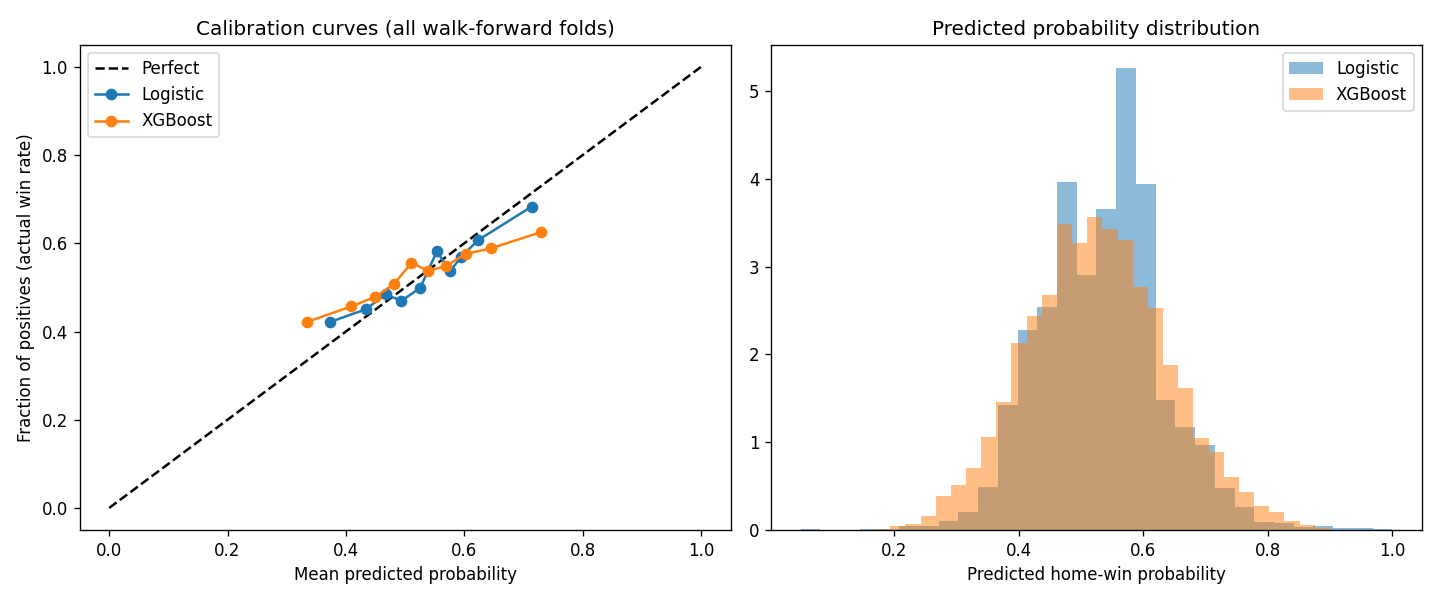
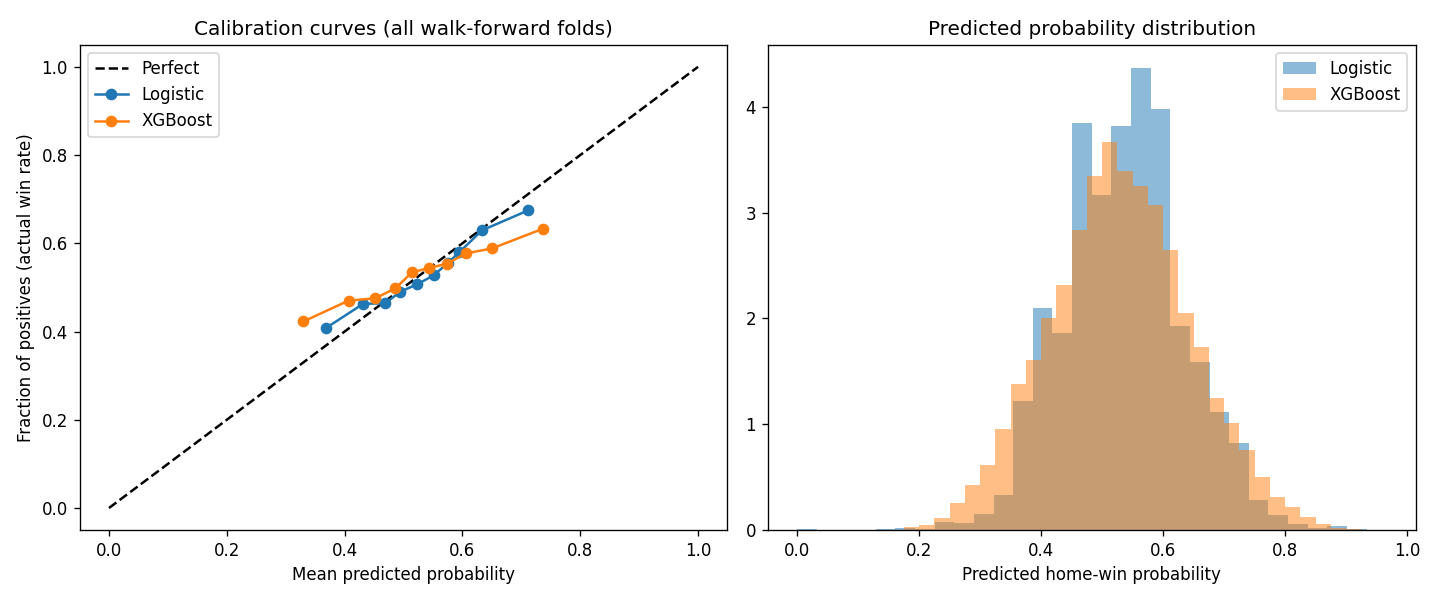
Add Elo ratings feature + safety fixes + bankroll sync
- elo_diff is now the #1 model feature (coef +0.199); AUC 0.585 → 0.588
  Elo computed game-by-game (K=20, home_adv=35, 33% season regression),
  no lookahead leakage — same-day games flushed as a batch before updating.
  build_elo_cache() for training, build_live_elo_ratings() for live picks.

- MAX_AMERICAN_ODDS = 400 hard cap in recommender (belt-and-suspenders on
  top of MIN_MARKET_PROB; logistic cannot reliably price true underdogs)

- get_current_bankroll() reads settings.json first, falls back to
  DEFAULT_BANKROLL — daily_picks and update_and_pick now size bets off
  the live bankroll ($56.75) not the stale config value ($71.34)

- CLV capture plist updated to run at noon AND 4pm so afternoon games
  (1pm starts) are captured before first pitch

diff --git a/features/engineering.py b/features/engineering.py
@@ -27,6 +27,100 @@ sys.path.insert(0, str(Path(__file__).parent.parent))
 from db.schema import get_engine, Game
 
 # ---------------------------------------------------------------------------
+# Elo rating parameters
+# ---------------------------------------------------------------------------
+
+_ELO_BASE    = 1500.0   # starting rating for any team with no history
+_ELO_K       = 20.0     # update sensitivity per game (standard for baseball)
+_ELO_HOME    = 35.0     # home-field bonus in Elo points (≈ +2.4% win prob)
+_ELO_REGRESS = 0.33     # fraction regressed toward mean at each season start
+
+
+def _elo_expected(home_elo: float, away_elo: float) -> float:
+    return 1.0 / (1.0 + 10.0 ** (-(home_elo - away_elo + _ELO_HOME) / 400.0))
+
+
+def _elo_sequence(rows) -> tuple[dict[int, float], dict[str, float]]:
+    """
+    Core Elo engine. Processes namedtuple-like rows sorted by (season, game_date).
+
+    Returns:
+      game_elo   : {game_pk: home_elo_pre - away_elo_pre}  (pre-game diff, no leakage)
+      ratings    : {team: final_elo}  (end state after all rows)
+    """
+    ratings: dict[str, float] = {}
+    game_elo: dict[int, float] = {}
+    prev_season: int | None = None
+
+    i, n = 0, len(rows)
+    while i < n:
+        season = int(rows[i].season)
+
+        # Season-start regression to the mean
+        if prev_season is not None and season != prev_season:
+            for team in list(ratings):
+                ratings[team] = _ELO_BASE + (1 - _ELO_REGRESS) * (ratings[team] - _ELO_BASE)
+        prev_season = season
+
+        # Collect all games for this (season, game_date) — flush together
+        # so doubleheaders can't leak into each other.
+        j = i
+        while j < n and int(rows[j].season) == season and rows[j].game_date == rows[i].game_date:
+            j += 1
+        day = rows[i:j]
+
+        # Assign pre-game Elo to each game in the group BEFORE updating any rating
+        for row in day:
+            h = ratings.get(row.home_team, _ELO_BASE)
+            a = ratings.get(row.away_team, _ELO_BASE)
+            if row.game_pk:
+                game_elo[row.game_pk] = h - a
+
+        # Update ratings based on results
+        for row in day:
+            home, away = row.home_team, row.away_team
+            h = ratings.get(home, _ELO_BASE)
+            a = ratings.get(away, _ELO_BASE)
+            expected = _elo_expected(h, a)
+            delta = _ELO_K * (float(row.home_win) - expected)
+            ratings[home] = h + delta
+            ratings[away] = a - delta
+
+        i = j
+
+    return game_elo, ratings
+
+
+def build_elo_cache(engine) -> dict[int, float]:
+    """
+    Returns {game_pk: home_elo_pre - away_elo_pre} for every settled game.
+    Used for historical feature matrix construction.
+    """
+    with engine.connect() as conn:
+        rows = conn.execute(text(
+            "SELECT game_pk, season, game_date, home_team, away_team, home_win "
+            "FROM games WHERE home_win IS NOT NULL "
+            "ORDER BY season, game_date, game_pk"
+        )).fetchall()
+    game_elo, _ = _elo_sequence(rows)
+    return game_elo
+
+
+def build_live_elo_ratings(engine, before_date: str) -> dict[str, float]:
+    """
+    Returns {team: current_elo} as of before_date.
+    Used for today's live pick features.
+    """
+    with engine.connect() as conn:
+        rows = conn.execute(text(
+            "SELECT game_pk, season, game_date, home_team, away_team, home_win "
+            "FROM games WHERE home_win IS NOT NULL AND game_date < :d "
+            "ORDER BY season, game_date, game_pk"
+        ), {"d": before_date}).fetchall()
+    _, ratings = _elo_sequence(rows)
+    return ratings
+
+# ---------------------------------------------------------------------------
 # Column definitions
 # ---------------------------------------------------------------------------
 
@@ -77,6 +171,11 @@ FEATURE_COLS = [
     # Bullpen quality (prior-season reliever ERA/FIP, separate from full team pitching)
     "bullpen_era_diff",        # home bullpen ERA − away bullpen ERA (lower ERA = better)
     "bullpen_fip_diff",        # home bullpen FIP − away bullpen FIP
+
+    # Elo rating differential (home - away, pre-game)
+    # Dynamic team strength updated game-by-game from 2019 onward.
+    # Regressed 33% toward the mean at each season start.
+    "elo_diff",
 ]
 
 TARGET    = "home_win"
@@ -468,6 +567,7 @@ def build_features(
     game_log_cache: dict | None = None,
     bullpen_cache: dict | None = None,
     team_bullpen_cache: dict | None = None,
+    elo_cache: dict | None = None,
 ) -> tuple[pd.DataFrame, pd.Series]:
     """
     Returns (X, y) where X is a DataFrame of FEATURE_COLS and y is home_win.
@@ -519,6 +619,12 @@ def build_features(
     # --- Bullpen quality (prior-season reliever ERA/FIP) ---
     _add_bullpen_quality(df, feats, team_bullpen_cache or {})
 
+    # --- Elo rating differential ---
+    if elo_cache and "game_pk" in df.columns:
+        feats["elo_diff"] = df["game_pk"].map(elo_cache).fillna(0.0)
+    else:
+        feats["elo_diff"] = 0.0
+
     # Sanity check column order
     feats = feats[FEATURE_COLS]
     y = df[TARGET].astype(int)
@@ -535,9 +641,10 @@ def load_f5_feature_matrix(
     Only includes games with a non-tie F5 outcome (home_win_f5 IS NOT NULL).
     """
     engine = get_engine()
-    game_log_cache    = load_game_log_cache(engine)
-    bullpen_cache     = build_bullpen_cache(engine, game_log_cache)
+    game_log_cache     = load_game_log_cache(engine)
+    bullpen_cache      = build_bullpen_cache(engine, game_log_cache)
     team_bullpen_cache = load_team_bullpen_cache(engine)
+    elo_cache          = build_elo_cache(engine)
 
     with engine.connect() as conn:
         q = "SELECT * FROM games WHERE home_win_f5 IS NOT NULL"
@@ -553,7 +660,7 @@ def load_f5_feature_matrix(
         df = pd.read_sql(text(q), conn, params=params)
 
     feats, _ = build_features(df, game_log_cache=game_log_cache, bullpen_cache=bullpen_cache,
-                               team_bullpen_cache=team_bullpen_cache)
+                               team_bullpen_cache=team_bullpen_cache, elo_cache=elo_cache)
     feats = feats[F5_FEATURE_COLS]
     y    = df[TARGET_F5].astype(int)
     meta = df[["game_pk", "game_date", "season", "home_team", "away_team"]].copy()
@@ -572,8 +679,9 @@ def load_feature_matrix(
     game_log_cache     = load_game_log_cache(engine)
     bullpen_cache      = build_bullpen_cache(engine, game_log_cache)
     team_bullpen_cache = load_team_bullpen_cache(engine)
+    elo_cache          = build_elo_cache(engine)
     df = load_games(seasons=seasons, settled_only=True, before_date=before_date)
     X, y = build_features(df, game_log_cache=game_log_cache, bullpen_cache=bullpen_cache,
-                          team_bullpen_cache=team_bullpen_cache)
+                           team_bullpen_cache=team_bullpen_cache, elo_cache=elo_cache)
     meta = df[["game_pk", "game_date", "season", "home_team", "away_team"]].copy()
     return X, y, meta

diff --git a/paper_trade/live_features.py b/paper_trade/live_features.py
@@ -31,6 +31,7 @@ from features.engineering import (
     load_game_log_cache, recent_sp_stats,
     build_bullpen_cache, recent_bullpen_ip,
     load_team_bullpen_cache,
+    build_live_elo_ratings,
 )
 from ingestion.mlb_api import fetch_season_schedule, fetch_today_lineups, TEAM_ID_TO_ABBR
 
@@ -186,10 +187,11 @@ def build_live_features(
     session = get_session(engine)
     prior   = _prior_season(engine)
     season  = int(game_date[:4])
-    team_form = _build_team_form_cache(engine, season, game_date)
+    team_form          = _build_team_form_cache(engine, season, game_date)
     game_log_cache     = load_game_log_cache(engine)
     bullpen_cache      = build_bullpen_cache(engine, game_log_cache)
     team_bullpen_cache = load_team_bullpen_cache(engine)
+    elo_ratings        = build_live_elo_ratings(engine, game_date)
 
     # Pre-load pitcher stats cache for prior season
     pitcher_cache: dict[int, dict] = {}
@@ -324,6 +326,9 @@ def build_live_features(
             bullpen_era_diff = 0.0
             bullpen_fip_diff = 0.0
 
+        home_elo = elo_ratings.get(home, 1500.0)
+        away_elo = elo_ratings.get(away, 1500.0)
+
         row = {
             # Features
             "sp_fip_diff":        (home_sp.get("fip", 0) or 0) - (away_sp.get("fip", 0) or 0),
@@ -349,6 +354,7 @@ def build_live_features(
             "bullpen_data_available":   bullpen_data_available,
             "bullpen_era_diff":         bullpen_era_diff,
             "bullpen_fip_diff":         bullpen_fip_diff,
+            "elo_diff":                 home_elo - away_elo,
 
             # Metadata
             "game_pk":            game_pk,

diff --git a/config.py b/config.py
@@ -1,6 +1,7 @@
 from pathlib import Path
 from dotenv import load_dotenv
 import os
+import json
 
 BASE_DIR = Path(__file__).parent
 DATA_DIR = BASE_DIR / "data"
@@ -39,3 +40,22 @@ MIN_MARKET_PROB = 0.20
 # Threshold sweep on 2022-2025 walk-forward: 15% maximises ROI (+12.9% overall,
 # +14.8% on 2025) at a sample size still large enough to trust (168 bets).
 MIN_EDGE = 0.15
+
+# Hard cap on underdog odds. At +400 the market implies ~20% win probability,
+# which matches MIN_MARKET_PROB. Belt-and-suspenders guard: logistic regression
+# cannot reliably price outcomes this extreme.
+MAX_AMERICAN_ODDS = 400
+
+
+def get_current_bankroll() -> float:
+    """Return live bankroll from settings.json, falling back to DEFAULT_BANKROLL."""
+    settings_path = DATA_DIR / "settings.json"
+    if settings_path.exists():
+        try:
+            data = json.loads(settings_path.read_text())
+            val = float(data.get("bankroll", 0))
+            if val > 0:
+                return val
+        except Exception:
+            pass
+    return DEFAULT_BANKROLL

diff --git a/paper_trade/daily_picks.py b/paper_trade/daily_picks.py
@@ -25,7 +25,7 @@ from pathlib import Path
 
 sys.path.insert(0, str(Path(__file__).parent.parent))
 
-from config import MIN_EDGE, KELLY_FRACTION, DEFAULT_BANKROLL
+from config import MIN_EDGE, KELLY_FRACTION, DEFAULT_BANKROLL, get_current_bankroll
 from db.schema import init_db, get_session, PaperBet, F5Bet
 from paper_trade.odds_api import fetch_today_odds, fetch_today_f5_odds, OddsAPIError
 from paper_trade.live_features import build_live_features, build_live_f5_features
@@ -307,7 +307,7 @@ def record_closing_odds(game_pk: int, home_close: float, away_close: float):
 
 if __name__ == "__main__":
     parser = argparse.ArgumentParser(description="MLB paper trading daily picks")
-    parser.add_argument("--bankroll",  type=float, default=DEFAULT_BANKROLL)
+    parser.add_argument("--bankroll",  type=float, default=get_current_bankroll())
     parser.add_argument("--min-edge",  type=float, default=MIN_EDGE)
     parser.add_argument("--model",     type=str,   default="logistic",
                         choices=["logistic", "xgboost"])

diff --git a/betting/recommender.py b/betting/recommender.py
@@ -30,7 +30,7 @@ from pathlib import Path
 from dataclasses import dataclass, asdict
 
 sys.path.insert(0, str(Path(__file__).parent.parent))
-from config import MIN_EDGE, KELLY_FRACTION, MIN_MARKET_PROB
+from config import MIN_EDGE, KELLY_FRACTION, MIN_MARKET_PROB, MAX_AMERICAN_ODDS
 from betting.odds import (
     american_to_decimal,
     remove_vig,
@@ -163,8 +163,10 @@ def recommend(
         # Take the higher-edge side if both qualify
         side, prob, fair, edge, american, decimal = max(candidates, key=lambda c: c[3])
 
-        # Skip extreme underdogs — market implies <10% probability, model disagreement is noise
+        # Skip extreme underdogs — probability floor and hard odds cap
         if fair < MIN_MARKET_PROB:
+            continue
+        if american > MAX_AMERICAN_ODDS:
             continue
 
         stake = kelly_stake(prob, decimal, bankroll, fraction=kelly_fraction)

diff --git a/paper_trade/update_and_pick.py b/paper_trade/update_and_pick.py
@@ -20,7 +20,7 @@ from pathlib import Path
 
 sys.path.insert(0, str(Path(__file__).parent.parent))
 
-from config import MIN_EDGE, DEFAULT_BANKROLL
+from config import MIN_EDGE, DEFAULT_BANKROLL, get_current_bankroll
 from db.schema import init_db, get_session, PitcherSeason, TeamSeason, ParkFactor
 from ingestion.build_game_table import (
     ingest_pitcher_stats,
@@ -135,7 +135,7 @@ if __name__ == "__main__":
     parser = argparse.ArgumentParser(
         description="Refresh MLB data, retrain the model, and run today's picks."
     )
-    parser.add_argument("--bankroll", type=float, default=DEFAULT_BANKROLL)
+    parser.add_argument("--bankroll", type=float, default=get_current_bankroll())
     parser.add_argument("--min-edge", type=float, default=MIN_EDGE)
     parser.add_argument(
         "--model",
